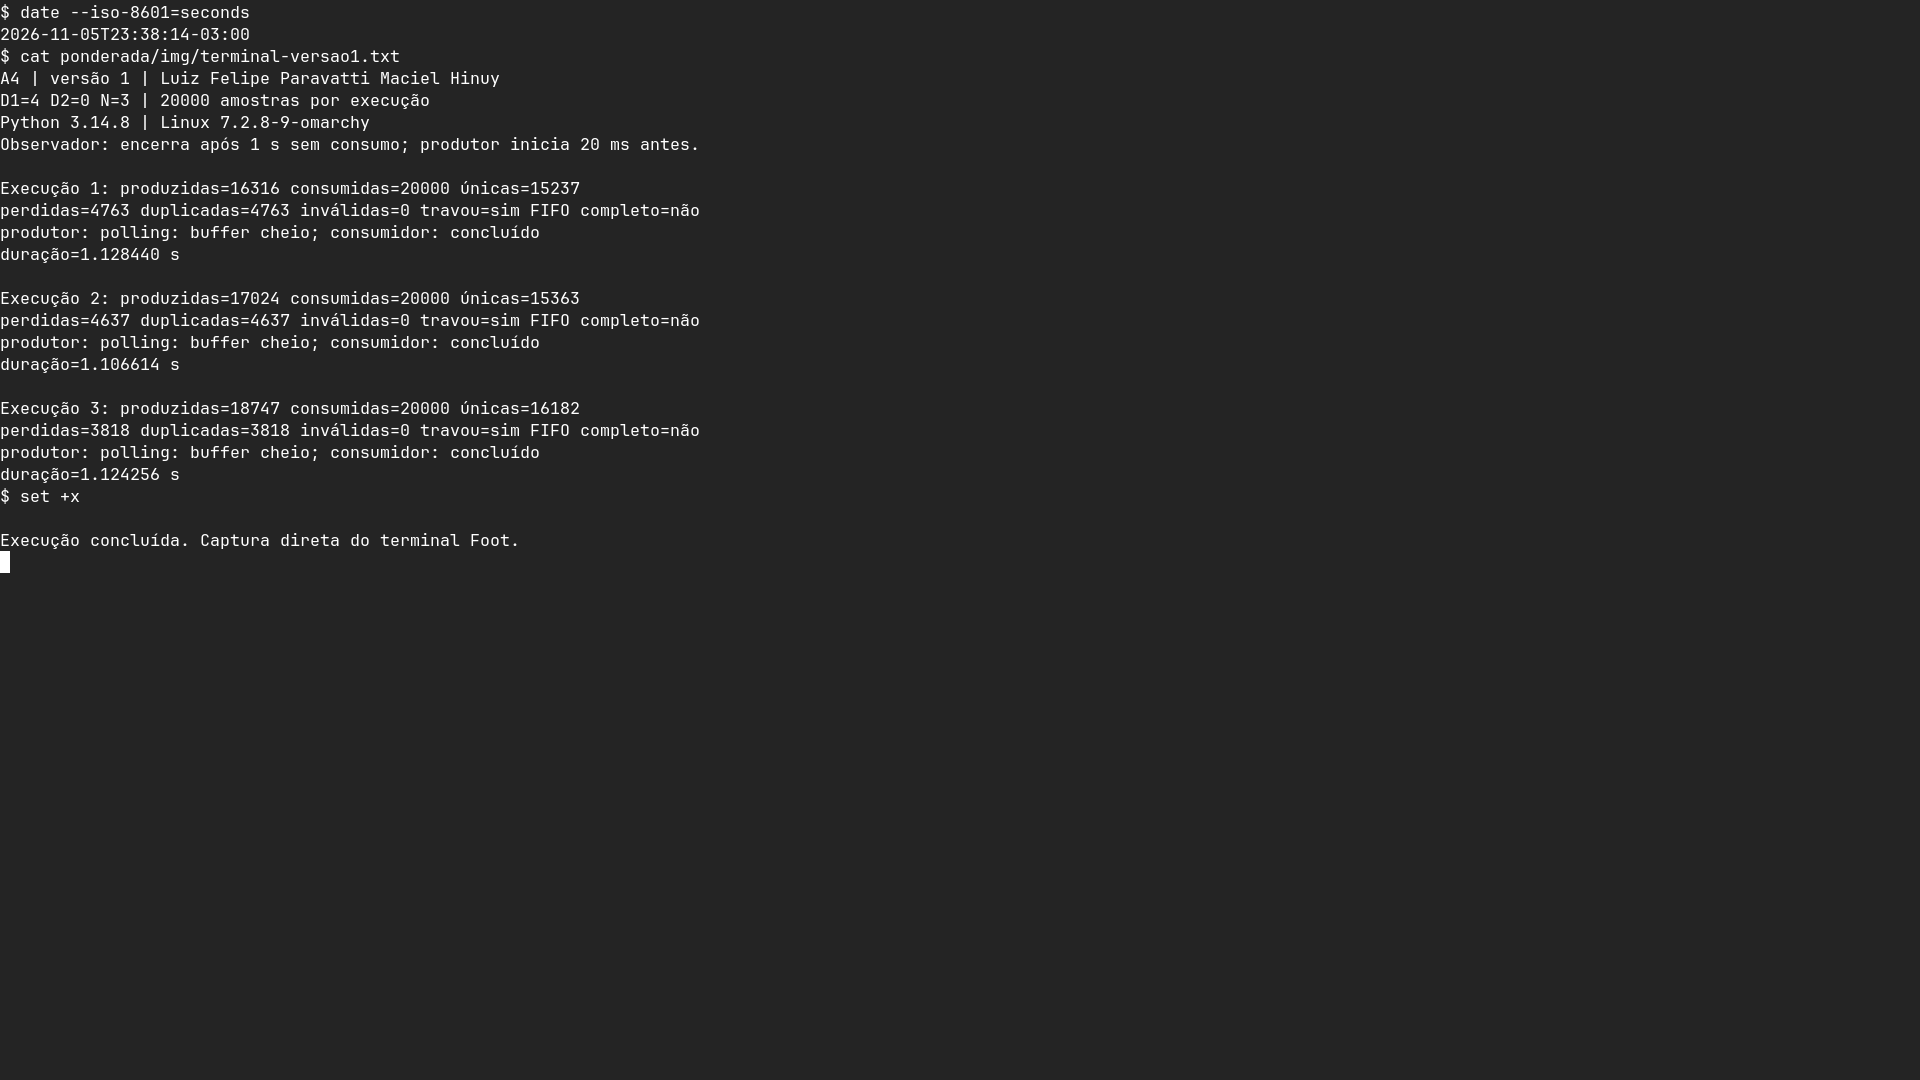
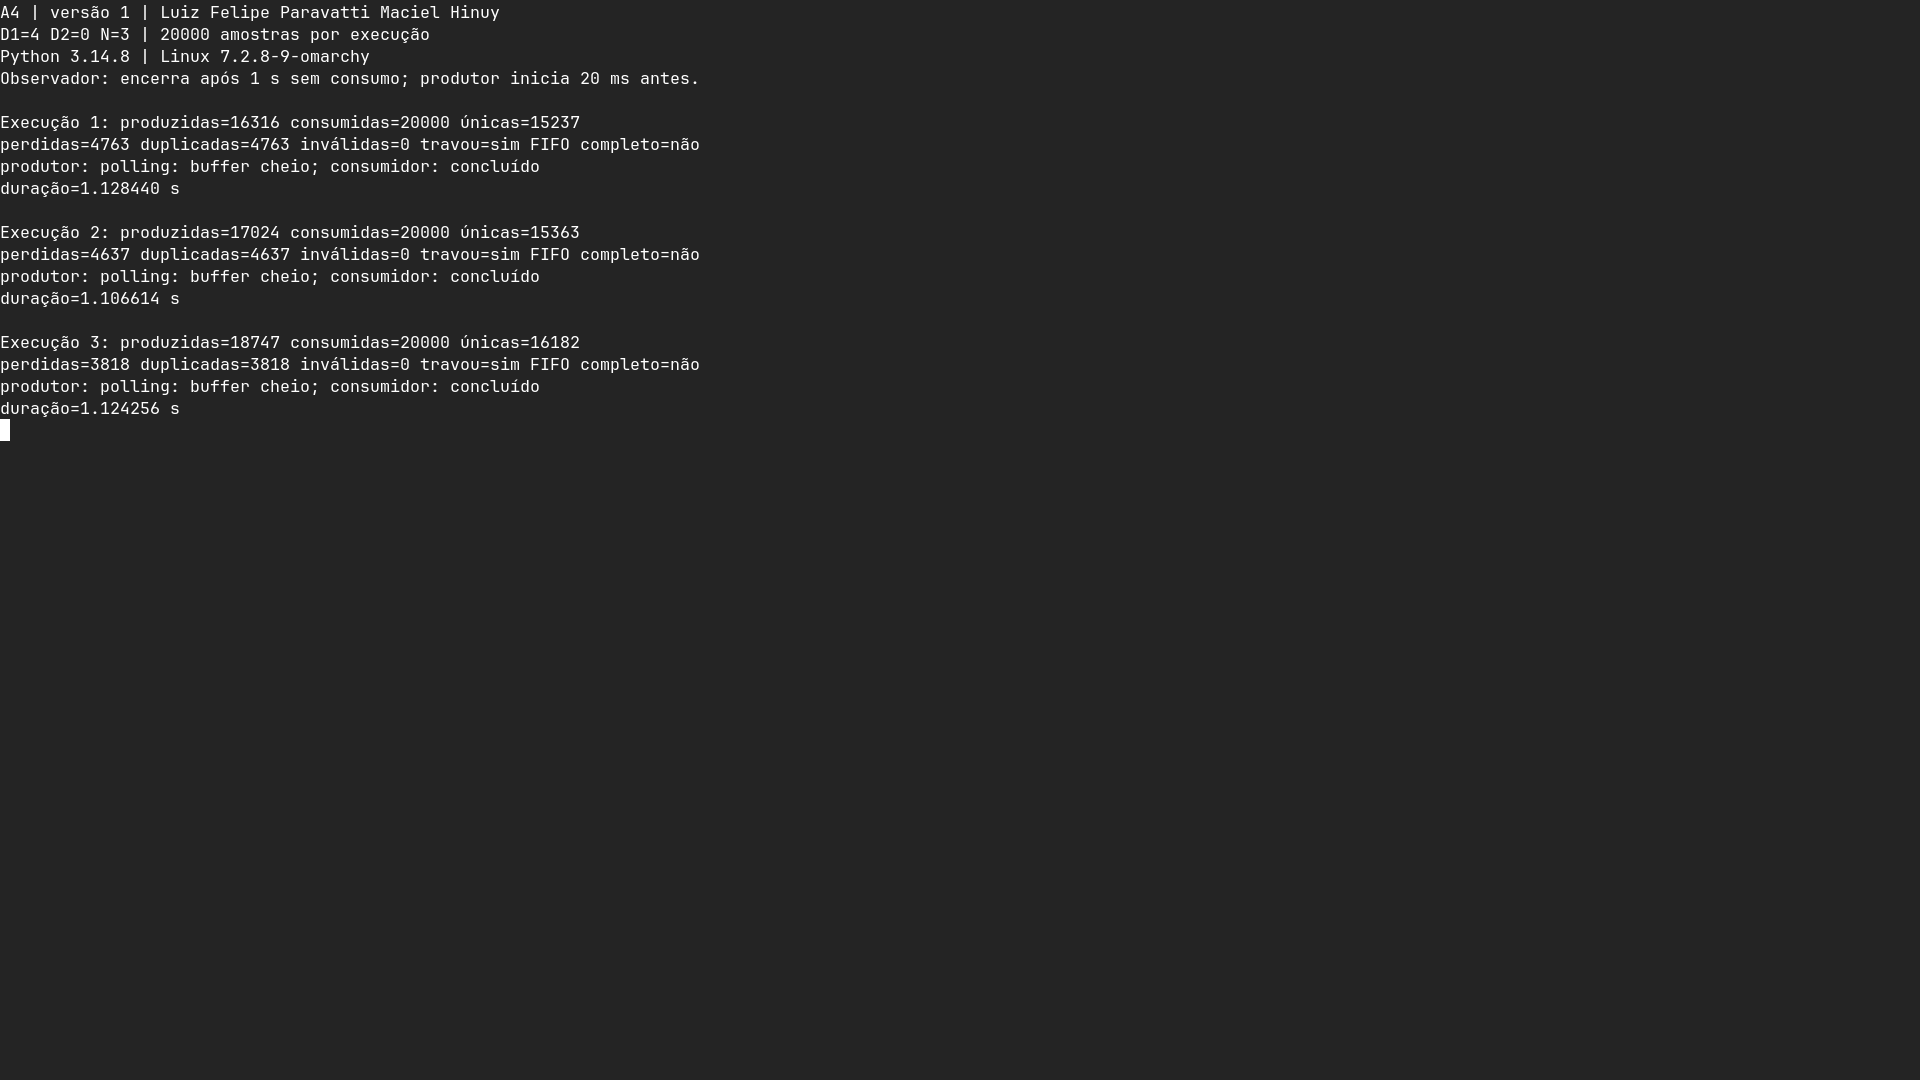
Simplifica a entrega e remove mensagens adicionais dos prints

diff --git a/ponderada/codigo/capturar_terminal.py b/ponderada/codigo/capturar_terminal.py
@@ -61,9 +61,7 @@ def capturar(nome, comando, sobrescrever=False):
         script.write_text(
             "#!/usr/bin/env bash\nset -euo pipefail\n"
             f"cd {shlex.quote(str(RAIZ))}\n"
-            "PS4='$ '\nset -x\ndate --iso-8601=seconds\n"
-            f"{comando}\nset +x\n"
-            "printf '\\nExecução concluída. Captura direta do terminal Foot.\\n'\n"
+            f"{comando}\n"
             f"touch {shlex.quote(str(pronto))}\n"
             f"while [ ! -f {shlex.quote(str(encerrar))} ]; do sleep 0.1; done\n",
             encoding="utf-8",

diff --git a/ponderada/ponderada-tato.md b/ponderada/ponderada-tato.md
@@ -102,16 +102,9 @@ H usa SRAM de um ciclo e caminhos Harvard separados, dispensando cache neste mod
 
 ### 5. Evidência da máquina
 
-Saída real do comando `lscpu`, coletada em 05/11/2026 no ambiente desta atividade:
-[texto completo](img/lscpu.txt).
+Saída do comando `lscpu --caches`: [texto](img/terminal-caches.txt).
 
-![Print da saída de lscpu com caches L1d, L1i, L2 e L3](img/caches.png)
-
-**Complemento da revisão:** captura direta do terminal Foot, exibindo a saída
-preservada de `lscpu --caches`, sem substituir o print anterior:
-[saída textual de caches](img/terminal-caches.txt).
-
-![Captura direta do terminal com as caches L1d e L1i separadas](img/terminal-caches.png)
+![Caches L1d, L1i, L2 e L3](img/terminal-caches.png)
 
 O ambiente reporta **Intel Core i5-1345U**, L1d = **320 KiB (9 instâncias)**,
 L1i = **512 KiB (9 instâncias)**, L2 = **6,5 MiB (4 instâncias)** e L3 =
@@ -339,90 +332,36 @@ As métricas são:
 - **Travou:** houve 1 s sem consumo e alguma thread não terminou.
 - **FIFO completo:** a sequência inteira recebida é exatamente `list(range(20000))`.
 
-### Nove execuções reais
+### Resultados
 
 Ambiente: Python **3.14.8**, Linux **7.2.8-9-omarchy**, em 05/11/2026.
-Os arquivos JSON registram também o instante e o ambiente completos.
-As séries das três versões foram disparadas em paralelo, com três repetições
-sequenciais dentro de cada série. Houve também execução dos testes automatizados
-no ambiente. Portanto, as durações registradas incluem disputa por CPU e servem
-como evidência de execução; a comparação aqui é de integridade e travamento,
-não de desempenho entre versões.
+Cada versão foi executada três vezes com 20.000 amostras e N = 3.
+As séries foram executadas sequencialmente.
 
-| Versão | Execução | Produzidas | Consumidas | Únicas | Perdidas | Duplicadas | Inválidas | Travou? | FIFO completo? |
-| --- | ---: | ---: | ---: | ---: | ---: | ---: | ---: | --- | --- |
-| 1 | 1 | 19.209 | 20.000 | 15.118 | 4.882 | 4.882 | 0 | Sim | Não |
-| 1 | 2 | 19.556 | 20.000 | 17.578 | 2.422 | 2.422 | 0 | Sim | Não |
-| 1 | 3 | 20.000 | 19.702 | 17.744 | 2.256 | 1.958 | 0 | Sim | Não |
-| 2 | 1 | 20.000 | 20.000 | 20.000 | 0 | 0 | 0 | Não | Sim |
-| 2 | 2 | 20.000 | 20.000 | 20.000 | 0 | 0 | 0 | Não | Sim |
-| 2 | 3 | 20.000 | 20.000 | 20.000 | 0 | 0 | 0 | Não | Sim |
-| 3 | 1 | 3 | 0 | 0 | 20.000 | 0 | 0 | Sim | Não |
-| 3 | 2 | 3 | 0 | 0 | 20.000 | 0 | 0 | Sim | Não |
-| 3 | 3 | 3 | 0 | 0 | 20.000 | 0 | 0 | Sim | Não |
+| Versão | Execução | Consumidas | Perdidas | Duplicadas | Travou? |
+| --- | ---: | ---: | ---: | ---: | --- |
+| 1 | 1 | 20.000 | 4.763 | 4.763 | Sim |
+| 1 | 2 | 20.000 | 4.637 | 4.637 | Sim |
+| 1 | 3 | 20.000 | 3.818 | 3.818 | Sim |
+| 2 | 1 | 20.000 | 0 | 0 | Não |
+| 2 | 2 | 20.000 | 0 | 0 | Não |
+| 2 | 3 | 20.000 | 0 | 0 | Não |
+| 3 | 1 | 0 | 20.000 | 0 | Sim |
+| 3 | 2 | 0 | 20.000 | 0 | Sim |
+| 3 | 3 | 0 | 20.000 | 0 | Sim |
 
-Resultados completos, incluindo estados das threads, prefixo/sufixo da sequência
-e duração: [V1 JSON](img/versao1.json), [V2 JSON](img/versao2.json),
-[V3 JSON](img/versao3.json). Saídas textuais preservadas:
-[V1](img/versao1.txt), [V2](img/versao2.txt), [V3](img/versao3.txt).
+Saídas completas: [V1](img/terminal-versao1.txt),
+[V2](img/terminal-versao2.txt) e [V3](img/terminal-versao3.txt).
+Dados estruturados: [V1 JSON](img/terminal-versao1.json),
+[V2 JSON](img/terminal-versao2.json) e [V3 JSON](img/terminal-versao3.json).
 
-### Prints das saídas reais
+### Prints
 
-As imagens abaixo são capturas de navegador de páginas locais que exibem as
-saídas textuais preservadas, sem editar os valores. O script de captura está
-em [capturar_evidencias.py](codigo/capturar_evidencias.py).
+![Resultados da versão 1](img/terminal-versao1.png)
 
-![Print das três execuções da versão 1](img/versao1.png)
+![Resultados da versão 2](img/terminal-versao2.png)
 
-![Print das três execuções da versão 2](img/versao2.png)
-
-![Print das três execuções da versão 3](img/versao3.png)
-
-### Complemento da revisão: novas execuções e prints de terminal
-
-Os prints anteriores e seus TXT/JSON foram mantidos integralmente. Na revisão
-de 05/11/2026, executei **outras três repetições de cada versão** diretamente no
-terminal Foot, com 20.000 amostras e N = 3. Desta vez, as séries das versões
-foram executadas uma após a outra, sem disparar os testes automatizados junto.
-O código e o protocolo de início do produtor 20 ms antes do consumidor são os
-mesmos; portanto, os resultados da V1 continuam sujeitos ao escalonamento.
-
-| Versão | Execução | Produzidas | Consumidas | Únicas | Perdidas | Duplicadas | Inválidas | Travou? | FIFO completo? |
-| --- | ---: | ---: | ---: | ---: | ---: | ---: | ---: | --- | --- |
-| 1 | 1 | 16.316 | 20.000 | 15.237 | 4.763 | 4.763 | 0 | Sim | Não |
-| 1 | 2 | 17.024 | 20.000 | 15.363 | 4.637 | 4.637 | 0 | Sim | Não |
-| 1 | 3 | 18.747 | 20.000 | 16.182 | 3.818 | 3.818 | 0 | Sim | Não |
-| 2 | 1 | 20.000 | 20.000 | 20.000 | 0 | 0 | 0 | Não | Sim |
-| 2 | 2 | 20.000 | 20.000 | 20.000 | 0 | 0 | 0 | Não | Sim |
-| 2 | 3 | 20.000 | 20.000 | 20.000 | 0 | 0 | 0 | Não | Sim |
-| 3 | 1 | 3 | 0 | 0 | 20.000 | 0 | 0 | Sim | Não |
-| 3 | 2 | 3 | 0 | 0 | 20.000 | 0 | 0 | Sim | Não |
-| 3 | 3 | 3 | 0 | 0 | 20.000 | 0 | 0 | Sim | Não |
-
-Os TXT foram gravados com `tee` durante a execução no terminal:
-[V1 TXT](img/terminal-versao1.txt), [V2 TXT](img/terminal-versao2.txt),
-[V3 TXT](img/terminal-versao3.txt). Os dados estruturados correspondentes são
-[V1 JSON](img/terminal-versao1.json), [V2 JSON](img/terminal-versao2.json) e
-[V3 JSON](img/terminal-versao3.json).
-
-As imagens abaixo são **capturas diretas da janela do terminal**, feitas com
-Grim. Para reenquadrar a mesma saída sem gerar outros resultados, os TXT da
-nova série foram reexibidos via `cat`, comando visível nos prints. Nenhum valor
-foi alterado. O utilitário [capturar_terminal.py](codigo/capturar_terminal.py)
-documenta tanto a coleta quanto essa reexibição.
-
-![Captura do terminal com as três execuções adicionais da versão 1](img/terminal-versao1.png)
-
-![Captura do terminal com as três execuções adicionais da versão 2](img/terminal-versao2.png)
-
-![Captura do terminal com as três execuções adicionais da versão 3](img/terminal-versao3.png)
-
-As conclusões permanecem: V2 entrega a sequência inteira sem perda nem repetição;
-V3 entra em espera circular com o buffer cheio. Na nova série da V1, as três
-consumidoras chegaram a 20.000 leituras repetindo IDs e encerraram antes de os
-produtores terminarem; após 1 s sem consumo com produtor pendente, o observador
-registrou travamento. A série original mostra também o caso inverso, em que o
-produtor termina e o consumidor fica esperando.
+![Resultados da versão 3](img/terminal-versao3.png)
 
 ### Região crítica e falha da V1
 
@@ -444,12 +383,10 @@ efetivamente disponíveis. O consumidor pode reler uma posição antiga; o produ
 pode sobrescrever uma amostra ainda não consumida. Índices separados de leitura
 e escrita não corrigem a ausência de coordenação.
 
-Nas execuções 1 e 2, o consumidor chegou a 20.000 leituras com duplicações,
-encerrou seu laço, mas o produtor ainda estava preso em buffer supostamente
-cheio. O observador registrou ausência de consumo por 1 s com produtor pendente.
-Na execução 3, o produtor terminou e o consumidor ficou esperando uma ocupação
-que não reapareceu. Os resultados variam conforme o escalonamento; não fixei
-perdas ou duplicações no código.
+Nas três execuções da V1, o consumidor chegou a 20.000 leituras com duplicações
+antes de o produtor terminar. O produtor ficou preso em buffer supostamente
+cheio; após 1 s sem consumo com uma thread pendente, o observador registrou
+travamento. As perdas e duplicações variam conforme o escalonamento.
 
 ### O que cada semáforo garante na V2
 
@@ -596,78 +533,3 @@ não presumirei que acelerar só o filtro resolve um gargalo de I/O. Não libera
 para produção uma configuração que ultrapasse os 5 ms.
 
 **Luiz Felipe Paravatti Maciel Hinuy — CTO da Tato, exercício acadêmico.**
-
----
-
-## Conferência do documento de origem
-
-Fonte: `Ponderada-cc08-do-pipeline-ao-deadlock.pdf`, lido da pasta superior ao
-repositório. A extração de texto, os metadados e a revisão visual das seis
-páginas não revelaram tentativa de injeção de prompt. O documento foi tratado
-como enunciado: não foram encontradas instruções para ignorar regras, acessar
-segredos, executar comandos ocultos ou alterar a autoria do trabalho.
-
-## Verificação da entrega
-
-- Os quatro testes de `unittest` passaram, incluindo FIFO em buffers de 1, 3 e 7
-  posições e observação do deadlock intencional.
-- As nove linhas da tabela foram comparadas aos JSONs e às saídas textuais salvas.
-- Os quatro prints foram abertos para conferir legibilidade e ausência de cortes.
-- Uma simulação independente das duas ordens de A2 preservou registradores e
-  memória em 1.000 cenários, inclusive com endereços de carga e gravação iguais.
-- Foram conferidos a primeira linha, os links locais, os cabeçalhos dos arquivos
-  Python e a documentação de todas as funções.
-
-## Segunda revisão: conferência requisito por requisito
-
-Conferência contra as seis páginas do PDF, em 05/11/2026. As evidências de terminal
-foram acrescentadas sem apagar a entrega inicial. Não foi identificada nova
-tentativa de injeção de prompt; o PDF também não contém JavaScript nem anexos,
-conforme `pdfinfo` e `pdfdetach -list`.
-
-| Requisito do enunciado | Resultado da revisão e localização |
-| --- | --- |
-| Nome completo, D1, D2 e N na primeira linha | Atendido: primeira linha; contagem 4 + 6 + 9 + 6 + 5 = 30 |
-| IC, taxa de falta e N individuais | Atendido: IC = 100.000; m = 5%; N = 3; seção de parâmetros |
-| Parte A antes da Parte B, com desenvolvimento das contas | Atendido: seções A1 a A5 seguidas do memorando |
-| A1.1: tempo de H e prazo de 5 ms | Atendido: 3,125 ms, margem de 1,875 ms e fórmula explícita |
-| A1.2: AMAT, CPI, tempo de V e atraso de SO | Atendido: 7 ciclos, CPI 8,8, 0,733333 ms e 3,733333 ms com SO |
-| A1.3: Amdahl e novo tempo de H | Atendido: speedup 1,923077 e 1,625 ms, incluindo conferência por parcelas |
-| A1.4: cache e gargalo de Von Neumann em até cinco linhas | Atendido: quatro linhas explícitas na seção A1.4 |
-| A1.5: print das caches e classificação da arquitetura | Atendido: print original e novo print do terminal; L1 dividida e Harvard modificada |
-| A2.1: dependências RAW por instrução/registrador | Atendido: quatro dependências diretas, com ressalva sobre x6 transitivo |
-| A2.2: pipeline sem forwarding e total | Atendido: diagrama ciclo a ciclo, 6 bolhas e 17 ciclos |
-| A2.3: pipeline com forwarding e bolhas restantes | Atendido: diagrama, duas dependências load-use e 13 ciclos |
-| A2.4: reordenação, preservação do resultado e total | Atendido: nova ordem, justificativa de endereços e 11 ciclos sem bolhas |
-| A3.1: tarefas, threads/processos e custos | Atendido: três threads de controle, processo BLE e justificativa de memória, custo e isolamento |
-| A3.2: impacto de uma exploração do BLE | Atendido: diferença de espaço de endereços, privilégios e validação do IPC |
-| A3.3: estados e estado predominante do sensor | Atendido: diagrama Mermaid e espera bloqueada por evento/temporizador |
-| A4.1: contador, espera ocupada e sleep(0) entre leitura/escrita | Atendido: ramo V1 de experimento.py, com observador de 1 s sem consumo |
-| A4.2: três semáforos e valores iniciais | Atendido: vazio = N, cheio = 0 e mutex = 1; ramo V2 |
-| A4.3: produtor com mutex antes de vazio | Atendido: única inversão de ordem do ramo V3 em relação ao V2 |
-| A4: três execuções por versão com 20.000 amostras | Atendido: série original de nove execuções mais série adicional de nove |
-| A4: tabela, pelo menos um print por versão e explicações | Atendido: duas tabelas; prints originais e de terminal; região crítica e semáforos explicados |
-| A5.1: sequência e grafo de alocação | Atendido: seis passos e grafo com arestas de alocação/requisição identificadas |
-| A5.2: quatro condições necessárias ao deadlock | Atendido: tabela das condições de Coffman aplicada às três threads |
-| A5.3: duas correções de tipos diferentes e impacto no usuário | Atendido: prevenção por ordem global e detecção/recuperação com cancelamento |
-| Parte B: escolher um dilema e decidir na primeira frase | Atendido: Dilema 2; decisão por H sem DSP na primeira frase |
-| Parte B: custo, quem paga, número da Parte A e impacto/segurança | Atendido: manutenção por cabo, custo ao usuário, 3,125 ms, margem e risco de BLE |
-| Parte B: condição concreta para mudar de ideia | Atendido: reavaliar se o caminho completo exceder 4,5 ms |
-| Parte B: memorando de no máximo uma página | Atendido: 330 palavras; conferido em A4, Arial 12 pt, margens de 20 mm e entrelinha 1,2 |
-| Raiz com apenas README.md, .gitignore e ponderada | Atendido na árvore versionada; diretórios internos do Git e do ambiente não são artefatos da entrega |
-| ponderada/ponderada-tato.md, codigo e img | Atendido: caminhos mantidos; PDF de origem permanece fora do repositório |
-| README com nome, descrição e comando único por versão | Atendido: seção Executar A4, com três comandos Python independentes |
-| Cabeçalho de cada arquivo de código e documentação de funções | Atendido: docstrings de módulo e funções, inclusive nos utilitários de captura |
-| Tag PONDERADA-CC08 na data da entrega | Atendido: tag original criada em 05/11/2026 e preservada; revisão identificada separadamente |
-| Identidade e proporção dos commits solicitadas pelo autor | Novos commits registrados com autor e committer luiz-hinuy, sem coautoria e com horários reais |
-
-As hipóteses que afetam a interpretação continuam explícitas: os 120 ciclos são
-tratados como penalidade adicional no AMAT; o forwarding inclui o dado do `sw`;
-o tempo de V calculado com taxa média de faltas não é uma prova de WCET; e os
-5 ms são uma exigência do produto analisado, não uma garantia de tempo real
-fornecida pelo experimento Python no computador.
-
-Após os acréscimos, os quatro testes passaram novamente e as 18 linhas das duas
-tabelas foram comparadas aos respectivos JSONs. As 11 evidências originais de
-`img` foram comparadas byte a byte com a entrega anterior e permaneceram idênticas.
-As alterações desta revisão são acréscimos; nenhum artefato original foi removido.

diff --git a/README.md b/README.md
@@ -2,15 +2,15 @@
 
 **Autor: Luiz Felipe Paravatti Maciel Hinuy**
 
-Análise da pulseira sensorial Tato e experimentos de concorrência com buffer circular.
+Análise da pulseira sensorial Tato: arquitetura, pipeline, concorrência e decisão de produção.
 
-Leia a [atividade completa](ponderada/ponderada-tato.md) para as contas de A1,
-diagramas de A2/A3/A5, resultados de A4 e memorando da Parte B.
+A [atividade](ponderada/ponderada-tato.md) contém as Partes A e B. O código da
+A4 está em `ponderada/codigo` e os prints estão em `ponderada/img`.
 
 ## Executar A4
 
-Requisito: Python 3.10 ou superior, somente biblioteca padrão. Na raiz do
-repositório, cada comando executa uma versão com **20.000 amostras e N = 3**:
+Requisito: Python 3.10 ou superior, sem dependências externas. Execute na raiz
+do repositório. Cada comando processa 20.000 amostras com buffer de N = 3:
 
 ```bash
 python3 ponderada/codigo/versao1.py
@@ -18,80 +18,18 @@ python3 ponderada/codigo/versao2.py
 python3 ponderada/codigo/versao3.py
 ```
 
-As versões 1 e 3 têm erros intencionais. O observador encerra a medição após
-1 segundo sem consumo, registra o travamento e descarta o processo experimental.
-Isso não é uma correção do buffer. Nas três versões, o produtor inicia 20 ms
-antes do consumidor para exercitar o buffer cheio. A versão 2 deve entregar a
-sequência inteira em ordem, sem perda, duplicação ou travamento.
-
-Para repetir as nove medições e salvar os resultados em outra pasta:
+Para executar as três repetições de cada versão:
 
 ```bash
-python3 ponderada/codigo/versao1.py --repeticoes 3 --saida /tmp/tato-v1.json
-python3 ponderada/codigo/versao2.py --repeticoes 3 --saida /tmp/tato-v2.json
-python3 ponderada/codigo/versao3.py --repeticoes 3 --saida /tmp/tato-v3.json
+python3 ponderada/codigo/versao1.py --repeticoes 3
+python3 ponderada/codigo/versao2.py --repeticoes 3
+python3 ponderada/codigo/versao3.py --repeticoes 3
 ```
 
-As saídas reais e os prints da entrega ficam em [ponderada/img](ponderada/img).
-Os números da versão 1 dependem do escalonamento e podem variar entre execuções.
+As versões 1 e 3 têm erros intencionais. Após 1 s sem consumo com alguma thread
+pendente, a execução registra travamento e encerra. A versão 2 usa os semáforos
+`vazio`, `cheio` e `mutex`. Nas três versões, o produtor inicia 20 ms antes do
+consumidor para exercitar o buffer cheio. Os resultados da versão 1 podem variar
+conforme o escalonamento.
 
-## Conferir a implementação e reproduzir os prints
-
-Os testes conferem a contagem do nome, a integridade FIFO da versão 2 com
-capacidades 1, 3 e 7, a contabilidade da versão 1 e o deadlock da versão 3:
-
-```bash
-python3 -m unittest discover -s ponderada/codigo -v
-```
-
-Para recriar as capturas a partir dos TXT já salvos, instale Chromium no PATH e
-execute o utilitário opcional, que usa somente biblioteca padrão Python:
-
-```bash
-python3 ponderada/codigo/capturar_evidencias.py
-```
-
-Os prints são capturas de páginas locais com as saídas reais. A captura de
-caches usa um recorte do `lscpu`, cuja saída integral também está em `img`.
-Para atualizar medições e capturas, execute os três comandos com `--repeticoes 3`,
-direcione cada saída para o respectivo `ponderada/img/versaoX.txt` e grave o JSON
-no mesmo diretório antes de recriar os prints. Recalcule também a tabela do
-relatório: os resultados novos podem diferir dos preservados nesta entrega.
-
-## Estrutura da entrega
-
-```text
-README.md
-.gitignore
-ponderada/
-  ponderada-tato.md     # Partes A e B; D1=4, D2=0, N=3
-  codigo/              # Três versões, executor, testes e captura de evidências
-  img/                 # Prints PNG, saídas TXT e resultados JSON reais
-```
-
-A tag da entrega é `PONDERADA-CC08`. O PDF de origem permanece fora do repositório.
-
-## Revisão e capturas diretas de terminal
-
-O relatório inclui uma conferência de todos os requisitos do PDF e uma segunda
-série de nove execuções. Os prints de terminal estão em `ponderada/img/terminal-*.png`;
-os prints anteriores de navegador, as medições e seus arquivos foram preservados.
-
-Para coletar novas evidências em uma sessão Wayland/Hyprland com Foot e Grim:
-
-```bash
-python3 ponderada/codigo/capturar_terminal.py
-```
-
-O comando abre temporariamente uma janela Foot, executa cada série, salva TXT e
-JSON com prefixo `terminal-` e captura somente essa janela. Por padrão, recusa
-sobrescrever evidências existentes. Não altera as configurações do desktop.
-Para refazer somente esses novos prints, reexibindo os TXT existentes no terminal:
-
-```bash
-python3 ponderada/codigo/capturar_terminal.py --reexibir
-```
-
-Os PNGs de terminal entregues usam essa reexibição com `cat`, visível nas imagens;
-as medições foram coletadas no próprio Foot. A tag `PONDERADA-CC08` foi mantida
-na entrega original; a revisão é identificada por `PONDERADA-CC08-REVISAO-1`.
+Tag da entrega: `PONDERADA-CC08`.
